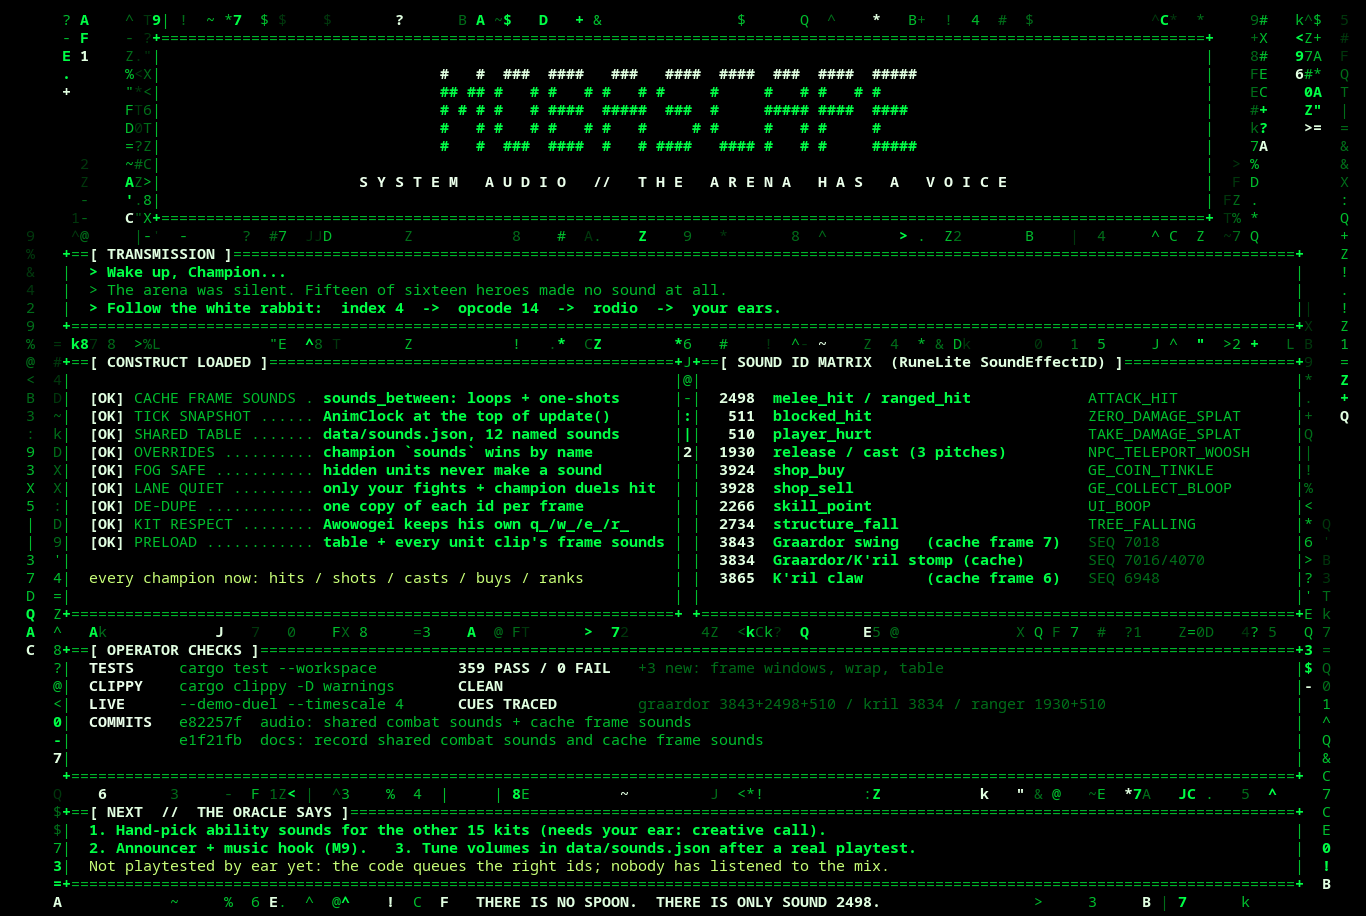
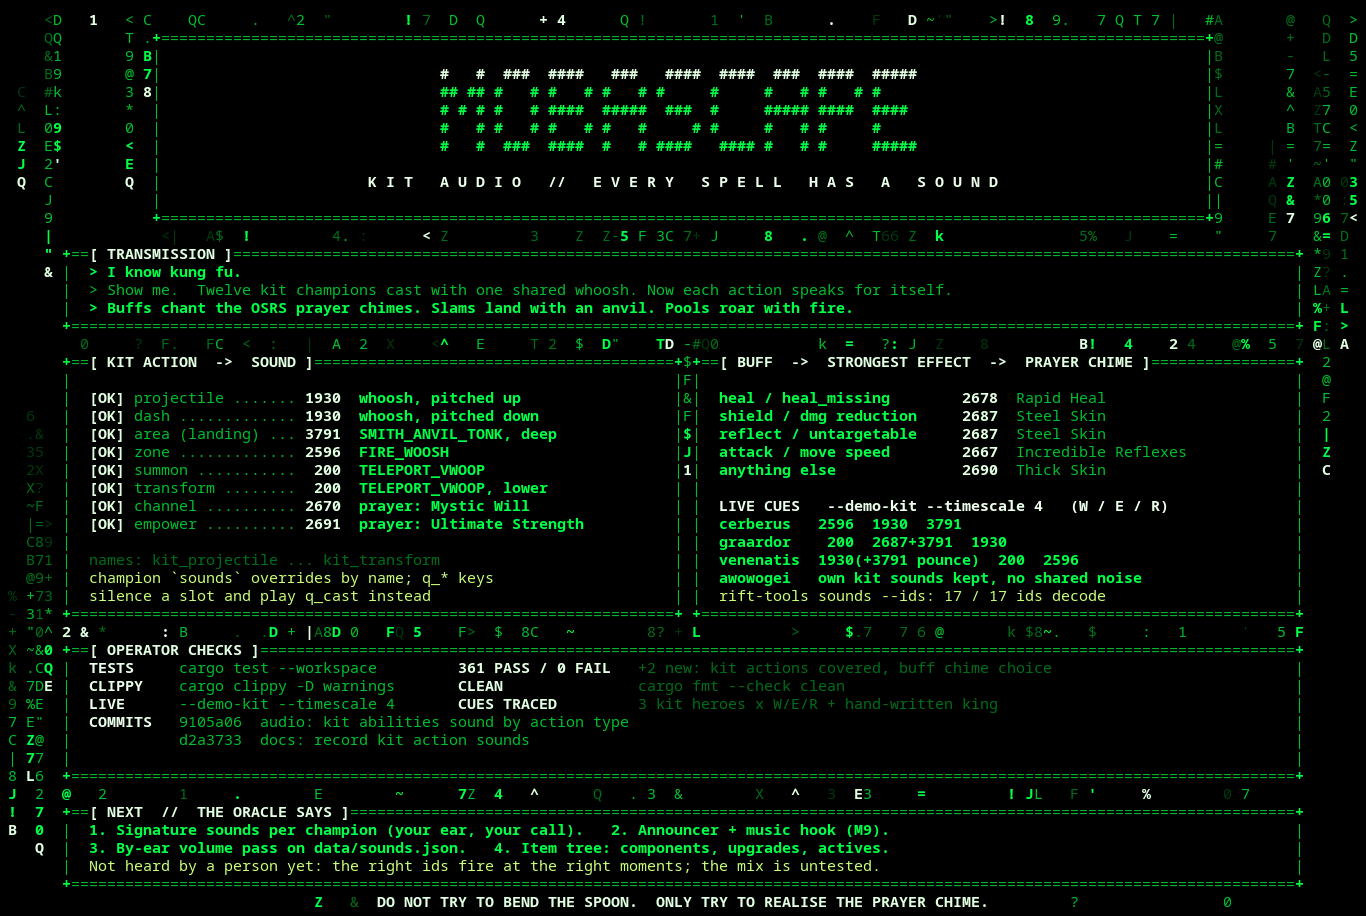
docs: Matrix progress screen for the kit audio pass

diff --git a/tools/matrix_progress.py b/tools/matrix_progress.py
@@ -38,7 +38,7 @@ def center(y, s, fg=BRIGHT, bg=BLACK):
 
 
 # --- digital rain --------------------------------------------------------
-rng = random.Random(1999)
+rng = random.Random(2000)
 GLYPHS = "0123456789ABCDEFZ:.=*+-<>|\"'^~$#@%&?!" + "ZQXJ7kTL"
 for x in range(W):
     if rng.random() < 0.18:
@@ -112,60 +112,62 @@ def big(y, word):
 
 panel(16, 1, W - 17, 11)
 big(3, "MOBASCAPE")
-center(9, "S Y S T E M   A U D I O   //   T H E   A R E N A   H A S   A   V O I C E", WHITE)
+center(9, "K I T   A U D I O   //   E V E R Y   S P E L L   H A S   A   S O U N D", WHITE)
 
 panel(6, 13, W - 7, 17, "TRANSMISSION")
-text(9, 14, "> Wake up, Champion...", BRIGHT)
-text(9, 15, "> The arena was silent. Fifteen of sixteen heroes made no sound at all.", MID)
-text(9, 16, "> Follow the white rabbit:  index 4  ->  opcode 14  ->  rodio  ->  your ears.", BRIGHT)
+text(9, 14, "> I know kung fu.", BRIGHT)
+text(9, 15, "> Show me.  Twelve kit champions cast with one shared whoosh. Now each action speaks for itself.", MID)
+text(9, 16, "> Buffs chant the OSRS prayer chimes. Slams land with an anvil. Pools roar with fire.", BRIGHT)
 
-# Left: what loaded.
-panel(6, 19, 74, 33, "CONSTRUCT LOADED")
+# Left: action -> sound.
+panel(6, 19, 74, 33, "KIT ACTION  ->  SOUND")
 rows = [
-    ("CACHE FRAME SOUNDS", "sounds_between: loops + one-shots"),
-    ("TICK SNAPSHOT", "AnimClock at the top of update()"),
-    ("SHARED TABLE", "data/sounds.json, 12 named sounds"),
-    ("OVERRIDES", "champion `sounds` wins by name"),
-    ("FOG SAFE", "hidden units never make a sound"),
-    ("LANE QUIET", "only your fights + champion duels hit"),
-    ("DE-DUPE", "one copy of each id per frame"),
-    ("KIT RESPECT", "Awowogei keeps his own q_/w_/e_/r_"),
-    ("PRELOAD", "table + every unit clip's frame sounds"),
+    ("projectile", "1930", "whoosh, pitched up"),
+    ("dash", "1930", "whoosh, pitched down"),
+    ("area (landing)", "3791", "SMITH_ANVIL_TONK, deep"),
+    ("zone", "2596", "FIRE_WOOSH"),
+    ("summon", " 200", "TELEPORT_VWOOP"),
+    ("transform", " 200", "TELEPORT_VWOOP, lower"),
+    ("channel", "2670", "prayer: Mystic Will"),
+    ("empower", "2691", "prayer: Ultimate Strength"),
 ]
-for i, (k, v) in enumerate(rows):
+for i, (k, n, v) in enumerate(rows):
     text(9, 21 + i, "[OK]", HEAD)
-    text(14, 21 + i, f"{k} ".ljust(20, "."), MID)
-    text(35, 21 + i, v, BRIGHT)
-text(9, 31, "every champion now: hits / shots / casts / buys / ranks", AMBER)
+    text(14, 21 + i, f"{k} ".ljust(18, "."), MID)
+    text(33, 21 + i, n, HEAD)
+    text(39, 21 + i, v, BRIGHT)
+text(9, 30, "names: kit_projectile ... kit_transform", DIM)
+text(9, 31, "champion `sounds` overrides by name; q_* keys", AMBER)
+text(9, 32, "silence a slot and play q_cast instead", AMBER)
 
-# Right: sound id table.
-panel(76, 19, W - 7, 33, "SOUND ID MATRIX  (RuneLite SoundEffectID)")
+# Right: buffs.
+panel(76, 19, W - 7, 33, "BUFF  ->  STRONGEST EFFECT  ->  PRAYER CHIME")
 ids = [
-    ("2498", "melee_hit / ranged_hit", "ATTACK_HIT"),
-    (" 511", "blocked_hit", "ZERO_DAMAGE_SPLAT"),
-    (" 510", "player_hurt", "TAKE_DAMAGE_SPLAT"),
-    ("1930", "release / cast (3 pitches)", "NPC_TELEPORT_WOOSH"),
-    ("3924", "shop_buy", "GE_COIN_TINKLE"),
-    ("3928", "shop_sell", "GE_COLLECT_BLOOP"),
-    ("2266", "skill_point", "UI_BOOP"),
-    ("2734", "structure_fall", "TREE_FALLING"),
-    ("3843", "Graardor swing   (cache frame 7)", "SEQ 7018"),
-    ("3834", "Graardor/K'ril stomp (cache)", "SEQ 7016/4070"),
-    ("3865", "K'ril claw       (cache frame 6)", "SEQ 6948"),
+    ("heal / heal_missing", "2678", "Rapid Heal"),
+    ("shield / dmg reduction", "2687", "Steel Skin"),
+    ("reflect / untargetable", "2687", "Steel Skin"),
+    ("attack / move speed", "2667", "Incredible Reflexes"),
+    ("anything else", "2690", "Thick Skin"),
 ]
-for i, (n, use, src) in enumerate(ids):
-    text(79, 21 + i, n, HEAD)
-    text(85, 21 + i, use.ljust(34), BRIGHT)
-    text(120, 21 + i, src, DIM if src.startswith("SEQ") else MID)
+for i, (use, n, src) in enumerate(ids):
+    text(79, 21 + i, use.ljust(26), BRIGHT)
+    text(106, 21 + i, n, HEAD)
+    text(112, 21 + i, src, MID)
+text(79, 27, "LIVE CUES   --demo-kit --timescale 4   (W / E / R)", WHITE)
+text(79, 28, "cerberus   2596  1930  3791", BRIGHT)
+text(79, 29, "graardor    200  2687+3791  1930", BRIGHT)
+text(79, 30, "venenatis  1930(+3791 pounce)  200  2596", BRIGHT)
+text(79, 31, "awowogei   own kit sounds kept, no shared noise", BRIGHT)
+text(79, 32, "rift-tools sounds --ids: 17 / 17 ids decode", AMBER)
 
 # Verification strip.
 panel(6, 35, W - 7, 42, "OPERATOR CHECKS")
 checks = [
-    ("TESTS", "cargo test --workspace", "359 PASS / 0 FAIL", "+3 new: frame windows, wrap, table"),
-    ("CLIPPY", "cargo clippy -D warnings", "CLEAN", ""),
-    ("LIVE", "--demo-duel --timescale 4", "CUES TRACED", "graardor 3843+2498+510 / kril 3834 / ranger 1930+510"),
-    ("COMMITS", "e82257f  audio: shared combat sounds + cache frame sounds", "", ""),
-    ("", "e1f21fb  docs: record shared combat sounds and cache frame sounds", "", ""),
+    ("TESTS", "cargo test --workspace", "361 PASS / 0 FAIL", "+2 new: kit actions covered, buff chime choice"),
+    ("CLIPPY", "cargo clippy -D warnings", "CLEAN", "cargo fmt --check clean"),
+    ("LIVE", "--demo-kit --timescale 4", "CUES TRACED", "3 kit heroes x W/E/R + hand-written king"),
+    ("COMMITS", "9105a06  audio: kit abilities sound by action type", "", ""),
+    ("", "d2a3733  docs: record kit action sounds", "", ""),
 ]
 for i, (k, cmd, res, note) in enumerate(checks):
     y = 36 + i
@@ -178,11 +180,11 @@ for i, (k, cmd, res, note) in enumerate(checks):
 
 # Next steps.
 panel(6, 44, W - 7, 48, "NEXT  //  THE ORACLE SAYS")
-text(9, 45, "1. Hand-pick ability sounds for the other 15 kits (needs your ear: creative call).", BRIGHT)
-text(9, 46, "2. Announcer + music hook (M9).   3. Tune volumes in data/sounds.json after a real playtest.", BRIGHT)
-text(9, 47, "Not playtested by ear yet: the code queues the right ids; nobody has listened to the mix.", AMBER)
+text(9, 45, "1. Signature sounds per champion (your ear, your call).   2. Announcer + music hook (M9).", BRIGHT)
+text(9, 46, "3. By-ear volume pass on data/sounds.json.   4. Item tree: components, upgrades, actives.", BRIGHT)
+text(9, 47, "Not heard by a person yet: the right ids fire at the right moments; the mix is untested.", AMBER)
 
-center(49, " THERE IS NO SPOON.  THERE IS ONLY SOUND 2498. ", HEAD)
+center(49, " DO NOT TRY TO BEND THE SPOON.  ONLY TRY TO REALISE THE PRAYER CHIME. ", HEAD)
 
 # --- outputs -------------------------------------------------------------
 with open(out + ".txt", "w") as f:
